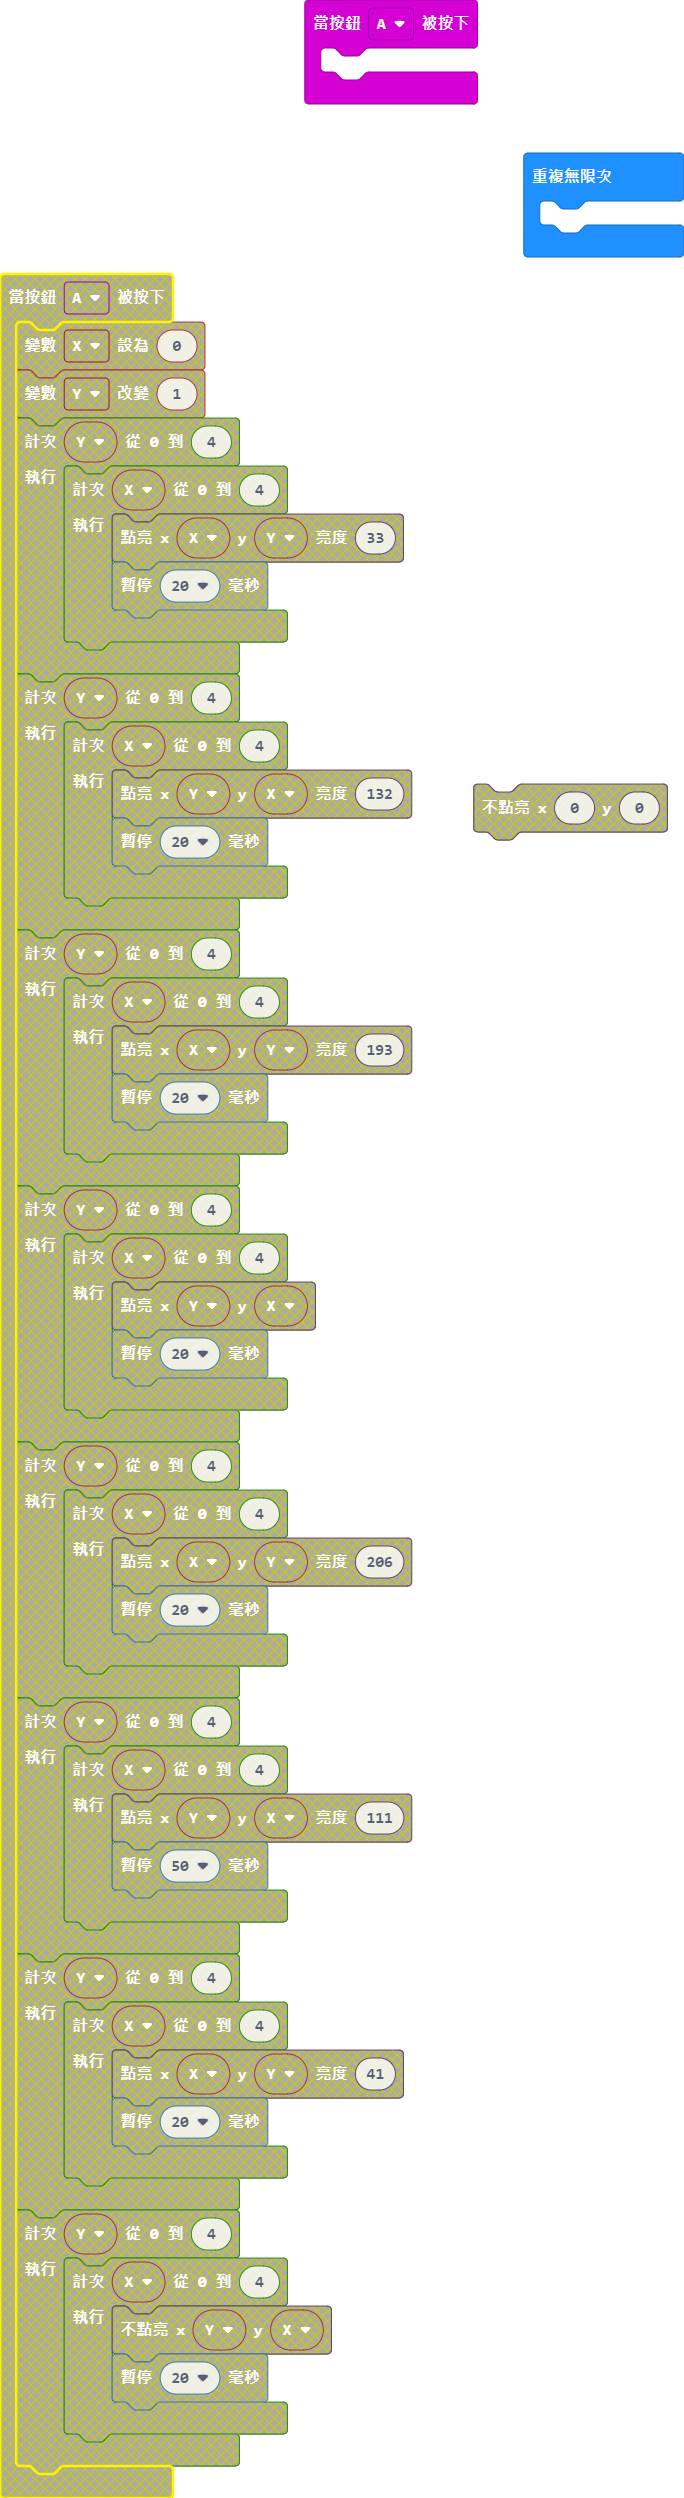
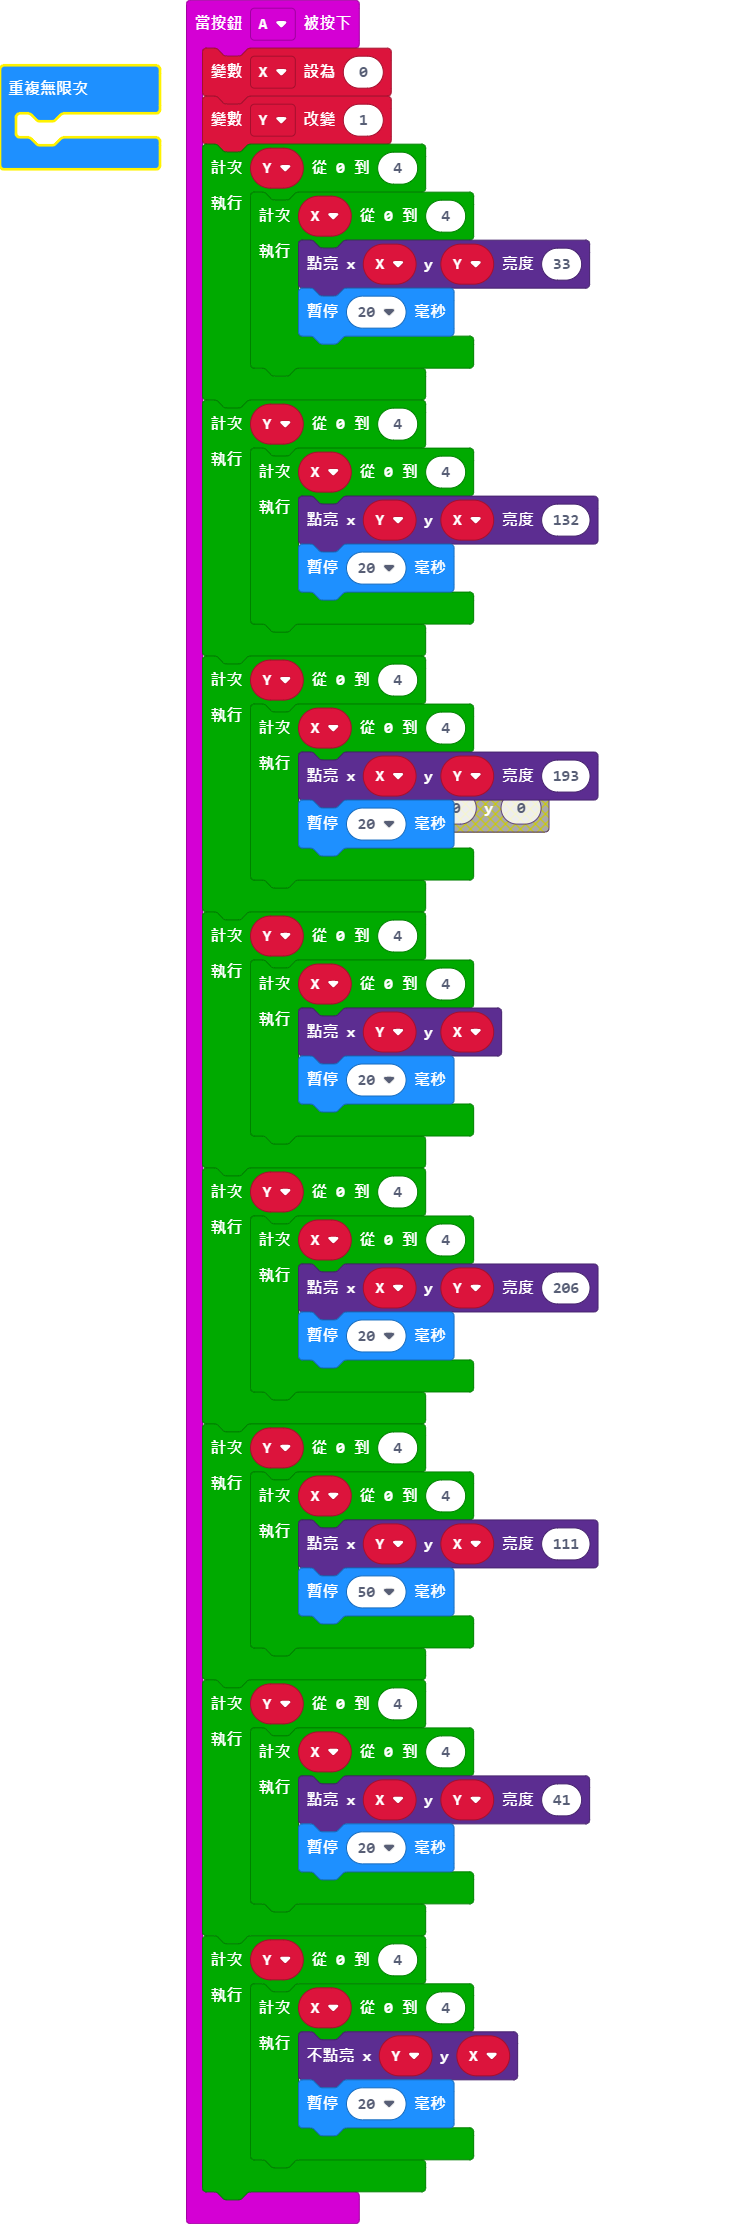
更新 main.blocks, main.ts

diff --git a/main.ts b/main.ts
@@ -1,5 +1,56 @@
+let X = 0
+let Y = 0
 input.onButtonPressed(Button.A, function () {
-	
+    X = 0
+    Y += 1
+    for (let Y = 0; Y <= 4; Y++) {
+        for (let X = 0; X <= 4; X++) {
+            led.plotBrightness(X, Y, 33)
+            basic.pause(20)
+        }
+    }
+    for (let Y = 0; Y <= 4; Y++) {
+        for (let X = 0; X <= 4; X++) {
+            led.plotBrightness(Y, X, 132)
+            basic.pause(20)
+        }
+    }
+    for (let Y = 0; Y <= 4; Y++) {
+        for (let X = 0; X <= 4; X++) {
+            led.plotBrightness(X, Y, 193)
+            basic.pause(20)
+        }
+    }
+    for (let Y = 0; Y <= 4; Y++) {
+        for (let X = 0; X <= 4; X++) {
+            led.plot(Y, X)
+            basic.pause(20)
+        }
+    }
+    for (let Y = 0; Y <= 4; Y++) {
+        for (let X = 0; X <= 4; X++) {
+            led.plotBrightness(X, Y, 206)
+            basic.pause(20)
+        }
+    }
+    for (let Y = 0; Y <= 4; Y++) {
+        for (let X = 0; X <= 4; X++) {
+            led.plotBrightness(Y, X, 111)
+            basic.pause(50)
+        }
+    }
+    for (let Y = 0; Y <= 4; Y++) {
+        for (let X = 0; X <= 4; X++) {
+            led.plotBrightness(X, Y, 41)
+            basic.pause(20)
+        }
+    }
+    for (let Y = 0; Y <= 4; Y++) {
+        for (let X = 0; X <= 4; X++) {
+            led.unplot(Y, X)
+            basic.pause(20)
+        }
+    }
 })
 basic.forever(function () {
 	
